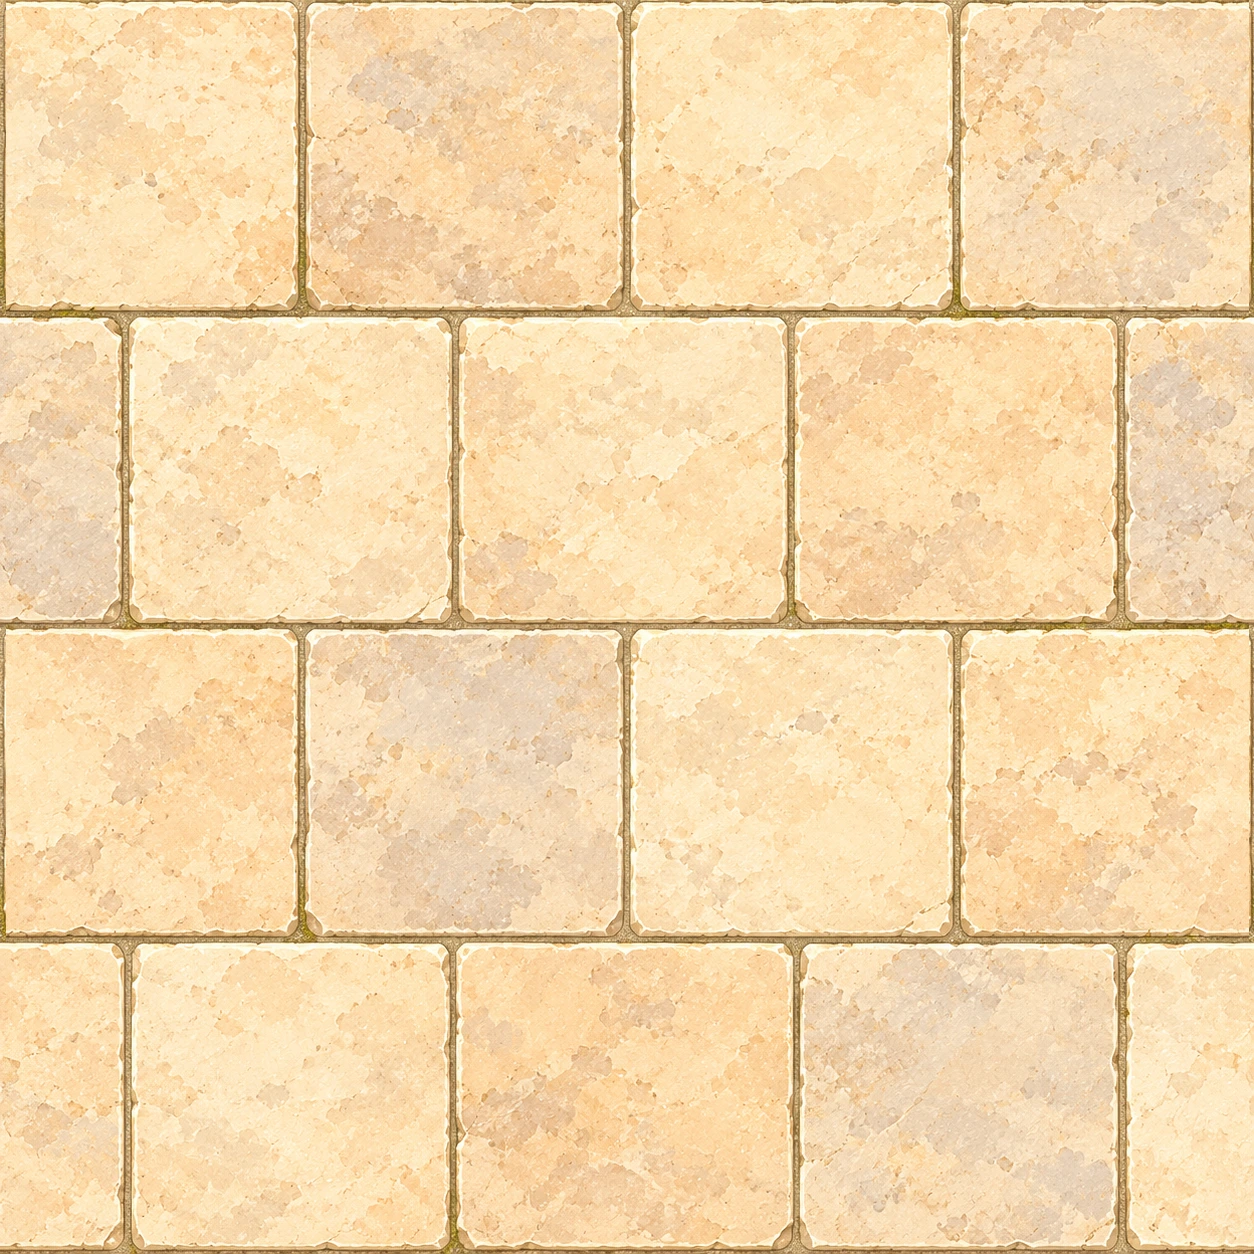
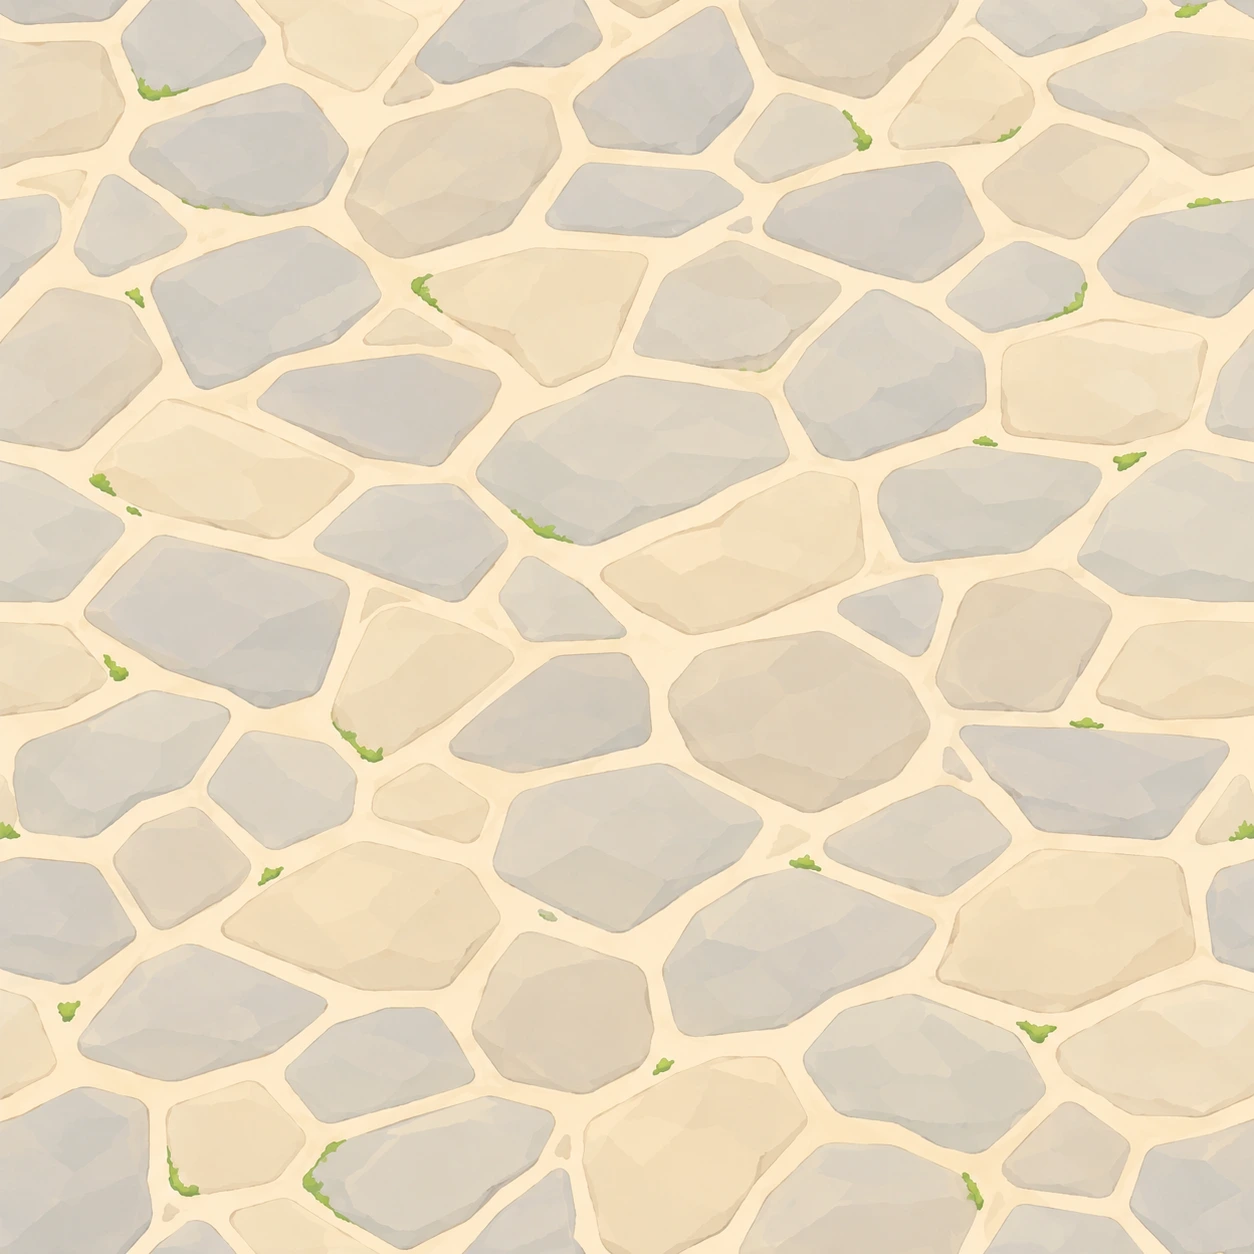
Switch the lobby floor to Codex's irregular flagstones
Claude-Session: https://claude.ai/code/session_01AABfKSSStXUw7TeHMfREWi

diff --git a/docs/lobby-art-prompts.md b/docs/lobby-art-prompts.md
@@ -26,7 +26,7 @@ Pedidos do usuário, em ordem: lobby parecido com a foto de referência de lobby
 - `LobbyWorld.podiums()` devolve onde ficam os pés do 1º, 2º e 3º colocados. Falta o servidor ter o ranking PvP do dia para desenhar os bonecos ali.
 - Camadas: barraca (parada) e NPC inteiro (respira) no MESMO canvas transparente, pés no centro da borda inferior. Portal e pódios ainda têm brilho, asas e emblema flutuando. Sem arte, o jogo usa um desenho provisório por código.
 - Sombras: cada estação projeta o próprio contorno no chão (achatado e inclinado para a esquerda, luz vinda da direita) e tem sombra de contato onde toca o piso (`shadows` em `LOBBY_STATIONS`).
-- Piso: se existir `public/assets/lobby/floor.webp`, o código cobre o piso pintado com essa textura em perspectiva a partir de y 548 (`FLOOR_TOP`). Sem o arquivo, fica o piso do panorama. O primeiro `floor.webp` do Codex (17/10, 1254×1254) não fechava a emenda lateral nas fileiras 1 e 3; o rejunte da borda foi completado por código.
+- Piso: se existir `public/assets/lobby/floor.webp`, o código cobre o piso pintado com essa textura em perspectiva a partir de y 548 (`FLOOR_TOP`). Sem o arquivo, fica o piso do panorama. O piso atual é o segundo do Codex (pedras irregulares cinza e bege, 17/10); o primeiro, de lajes retangulares, parecia parede de tijolo.
 - Novo NPC = uma pasta de camadas + uma linha em `LOBBY_STATIONS` (+ a ação em `App.tsx`).
 - Verificação: `node scripts/shot-lobby.mjs <pasta>` com Vite e servidor ligados (prévia, câmera andando com as setas, porta da Arena, caminhada até o Ferreiro).
 
